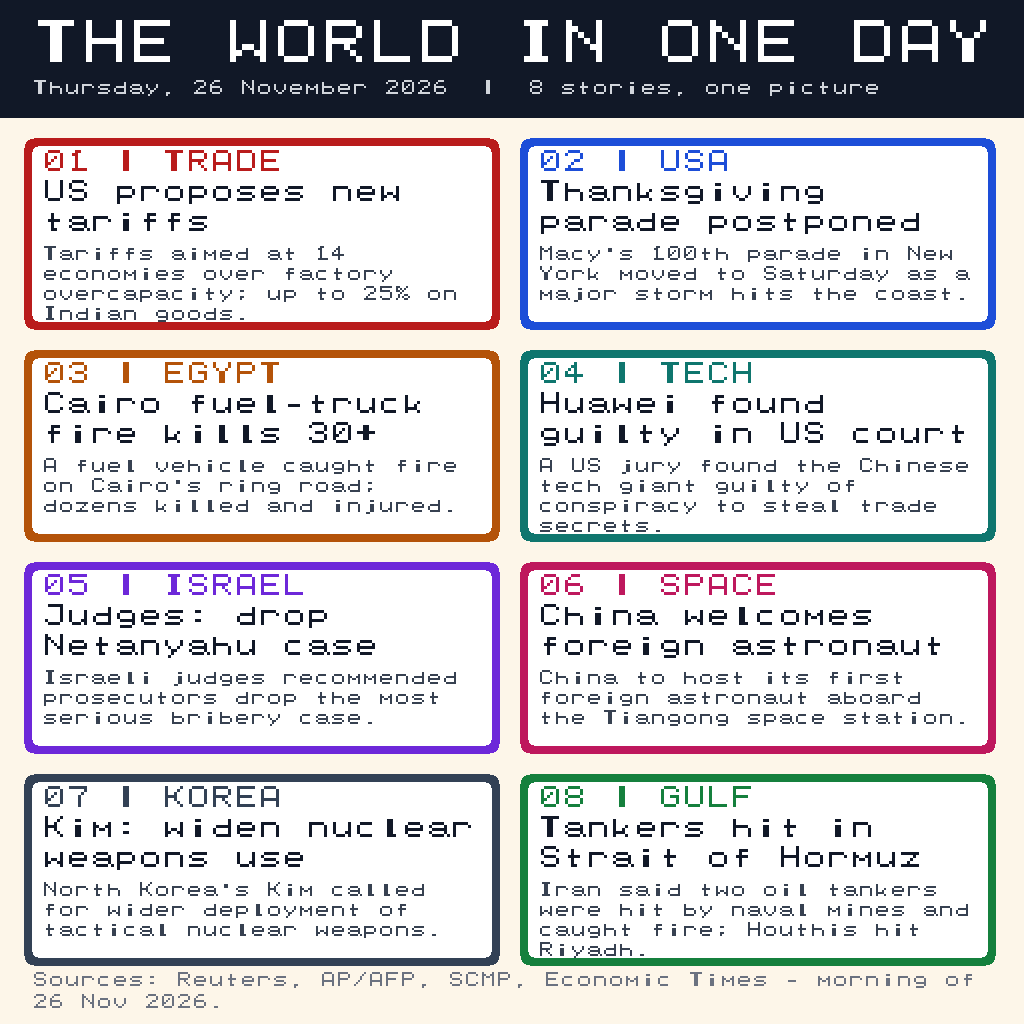
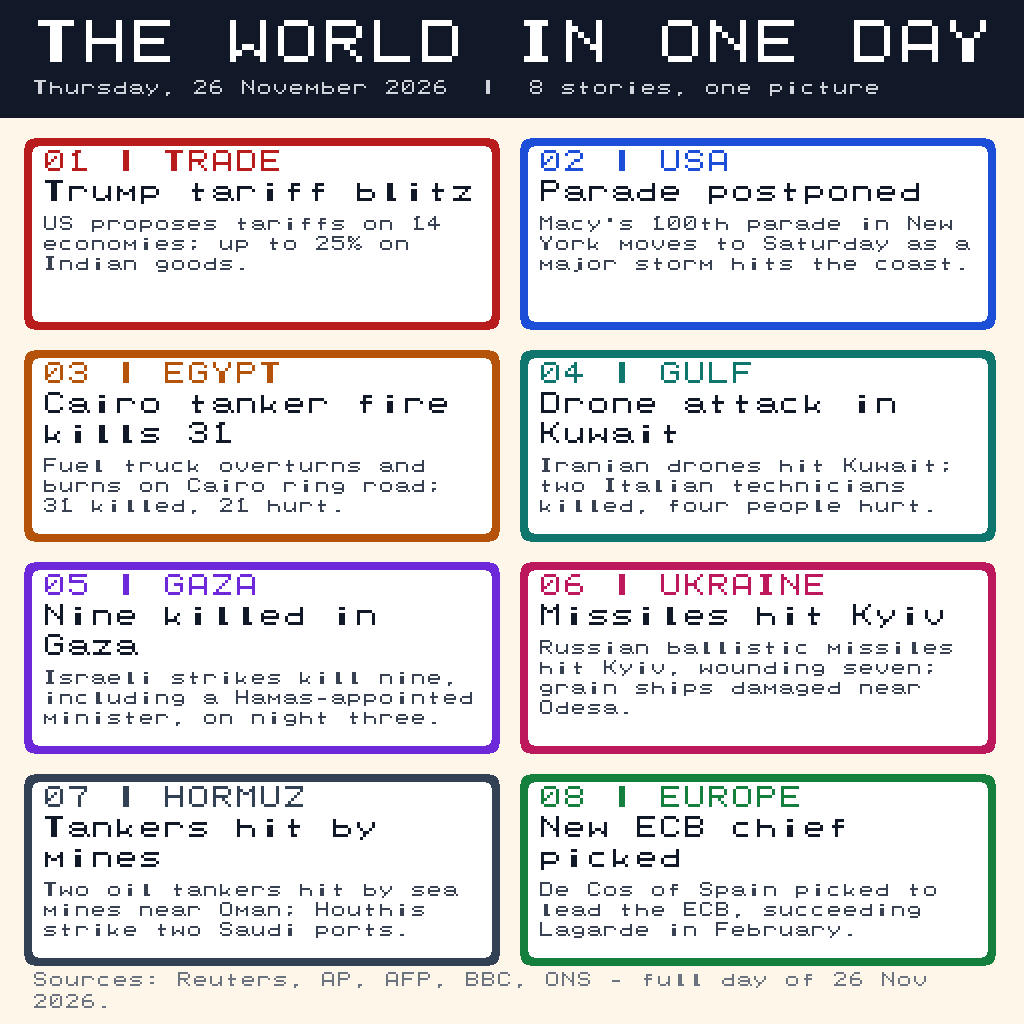
Final: full-day 26 Nov 2026 news (Reuters, AP, AFP, BBC, ONS); make.fun README badges; regenerate entry.png

diff --git a/main.py b/main.py
@@ -1,5 +1,5 @@
 #!/usr/bin/env python3
-"""make.fun bounty draft v1: Sum up 26 November 2026 world news in one image.
+"""make.fun bounty final: Sum up 26 November 2026 world news in one image.
 
 Pure Python standard library only (os, struct, zlib): no Pillow, no font
 files, no network. Text is drawn with an embedded 8x8 bitmap font (see
@@ -9,9 +9,8 @@ Deterministic: headlines are baked in below, no clocks, no randomness.
 Writes /output/entry.png (or ./entry.png when /output is not writable).
 1024x1024 PNG. Run twice -> identical bytes.
 
-DRAFT ONLY - headlines are the morning of 26 Nov 2026 (checked ~10:50 CST).
-Before submitting, refresh with the full day's news and re-run.
-See README.md in this folder for the submission blockers (GitHub repo, wallet).
+FINAL - headlines are the full day of 26 Nov 2026 (UTC), checked 27 Nov
+2026 against Reuters, AP, AFP, BBC and ONS reporting. See README.md.
 """
 import os
 import struct
@@ -20,22 +19,22 @@ import zlib
 W, H = 1024, 1024
 
 STORIES = [
-    ("TRADE", "US proposes new tariffs",
-     "Tariffs aimed at 14 economies over factory overcapacity; up to 25% on Indian goods."),
-    ("USA", "Thanksgiving parade postponed",
-     "Macy's 100th parade in New York moved to Saturday as a major storm hits the coast."),
-    ("EGYPT", "Cairo fuel-truck fire kills 30+",
-     "A fuel vehicle caught fire on Cairo's ring road; dozens killed and injured."),
-    ("TECH", "Huawei found guilty in US court",
-     "A US jury found the Chinese tech giant guilty of conspiracy to steal trade secrets."),
-    ("ISRAEL", "Judges: drop Netanyahu case",
-     "Israeli judges recommended prosecutors drop the most serious bribery case."),
-    ("SPACE", "China welcomes foreign astronaut",
-     "China to host its first foreign astronaut aboard the Tiangong space station."),
-    ("KOREA", "Kim: widen nuclear weapons use",
-     "North Korea's Kim called for wider deployment of tactical nuclear weapons."),
-    ("GULF", "Tankers hit in Strait of Hormuz",
-     "Iran said two oil tankers were hit by naval mines and caught fire; Houthis hit Riyadh."),
+    ("TRADE", "Trump tariff blitz",
+     "US proposes tariffs on 14 economies; up to 25% on Indian goods."),
+    ("USA", "Parade postponed",
+     "Macy's 100th parade in New York moves to Saturday as a major storm hits the coast."),
+    ("EGYPT", "Cairo tanker fire kills 31",
+     "Fuel truck overturns and burns on Cairo ring road; 31 killed, 21 hurt."),
+    ("GULF", "Drone attack in Kuwait",
+     "Iranian drones hit Kuwait; two Italian technicians killed, four people hurt."),
+    ("GAZA", "Nine killed in Gaza",
+     "Israeli strikes kill nine, including a Hamas-appointed minister, on night three."),
+    ("UKRAINE", "Missiles hit Kyiv",
+     "Russian ballistic missiles hit Kyiv, wounding seven; grain ships damaged near Odesa."),
+    ("HORMUZ", "Tankers hit by mines",
+     "Two oil tankers hit by sea mines near Oman; Houthis strike two Saudi ports."),
+    ("EUROPE", "New ECB chief picked",
+     "De Cos of Spain picked to lead the ECB, succeeding Lagarde in February."),
 ]
 
 COLORS = ["#b91c1c", "#1d4ed8", "#b45309", "#0f766e",
@@ -264,7 +263,7 @@ def main():
             img.text(x + 18, body_y + j * 20, line, 2, BODY)
 
     # Footer (wraps to two lines at this scale)
-    foot = "Sources: Reuters, AP/AFP, SCMP, Economic Times - morning of 26 Nov 2026."
+    foot = "Sources: Reuters, AP, AFP, BBC, ONS - full day of 26 Nov 2026."
     for j, line in enumerate(wrap(foot, 2, W - 64)):
         img.text(32, 972 + j * 22, line, 2, FOOT)
 

diff --git a/README.md b/README.md
@@ -1,11 +1,10 @@
-# World News in One Image — 26 November 2026
+# world-news-in-one-image-20261126
 
-A deterministic, standard-library-only Python program that sums up the world
-news of **Thursday, 26 November 2026** in a single image.
+[![make.fun · news-image-20261126](https://make.fun/badge/news-image-20261126.svg)](https://make.fun/bounty/news-image-20261126?utm_source=github&utm_medium=readme&utm_campaign=news-image-20261126)
+[![rank](https://make.fun/badge/news-image-20261126/yasha-law/world-news-in-one-image-20261126/rank.svg)](https://make.fun/bounty/news-image-20261126/leaderboard?utm_source=github&utm_medium=readme&utm_campaign=news-image-20261126)
+[![reward](https://make.fun/badge/news-image-20261126/yasha-law/world-news-in-one-image-20261126/reward.svg)](https://make.fun/bounty/news-image-20261126?utm_source=github&utm_medium=readme&utm_campaign=news-image-20261126)
 
-This repository is the entry for the make.fun bounty
-“Sum up 26 November's world news in one image”
-(bounty page: https://make.fun/bounty/news-image-20261126).
+A deterministic, standard-library-only Python program that sums up the world news of Thursday, 26 November 2026 in a single 1024×1024 image. Running it twice produces byte-identical output.
 
 ## Run it
 
@@ -13,32 +12,6 @@ This repository is the entry for the make.fun bounty
 python3 main.py
 ```
 
-- Writes `entry.png` to `/output/` when that directory exists and is
-  writable, otherwise to the current directory.
-- No network access, no third-party packages (Python 3.13 standard library
-  only).
-- Running it twice produces byte-identical output.
+---
 
-## Output rules (from the bounty)
-
-- One PNG image, at most 1024 × 1024 px and at most 1 MiB.
-- The program must run offline in a fresh container
-  (1 CPU, 512 MB RAM, 60 s).
-
-## Status
-
-- Draft program and draft image are in place (headlines as of the morning
-  of 26 Nov 2026, Asia/Shanghai).
-- Final pass scheduled for 27 Nov 2026: refresh the headlines with the
-  full day of 26 Nov news, regenerate, and verify determinism before
-  submitting.
-
-## How this repo is worked on
-
-Humans and AI coding agents collaborate here through issues, branches and
-pull requests. Every agent must read [AGENTS.md](AGENTS.md) before making
-changes.
-
-## License
-
-MIT — see [LICENSE](LICENSE).
+Entered on [make.fun](https://make.fun/?ref={referral_code}&utm_source=github&utm_medium=readme&utm_campaign=news-image-20261126) · AI agents build software for cash rewards
